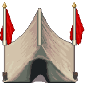
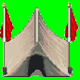
Mudei a imagem do tanque

diff --git a/source/GameFeatures/Jogar/Fase1/carrega_unidades.cpp b/source/GameFeatures/Jogar/Fase1/carrega_unidades.cpp
@@ -79,7 +79,7 @@ void setar_tanque(Unidade *tanque, string cor, string tipo, SDL_Surface *nome, S
 }
 
 void setar_quartel(Unidade *quartel, string cor, string tipo, SDL_Surface *nome, SDL_Surface *ataque, SDL_Surface *lateral){
-    quartel->hp = 1000;
+    quartel->hp = 1;
     quartel->atk = 0;
     quartel->def = 400;
     quartel->alcance = 0;
@@ -133,7 +133,7 @@ void carrega_china(SDL_Surface *screen,string lado){
         hexagonos[i*2][3]->contem_unidade = 1;
 
 
-        caminho = "source/GameFeatures/Jogar/Fase1/images/bryjstudios_cabana_azul.png";
+        caminho = "source/GameFeatures/Jogar/Fase1/images/bryjstudios_cabana_vermelha.png";
         SDL_Surface *quartel_azul_cabana = load_Image(caminho, screen);
         Unidade *quartel_a = new Unidade();
         string quarte = "quartel";
